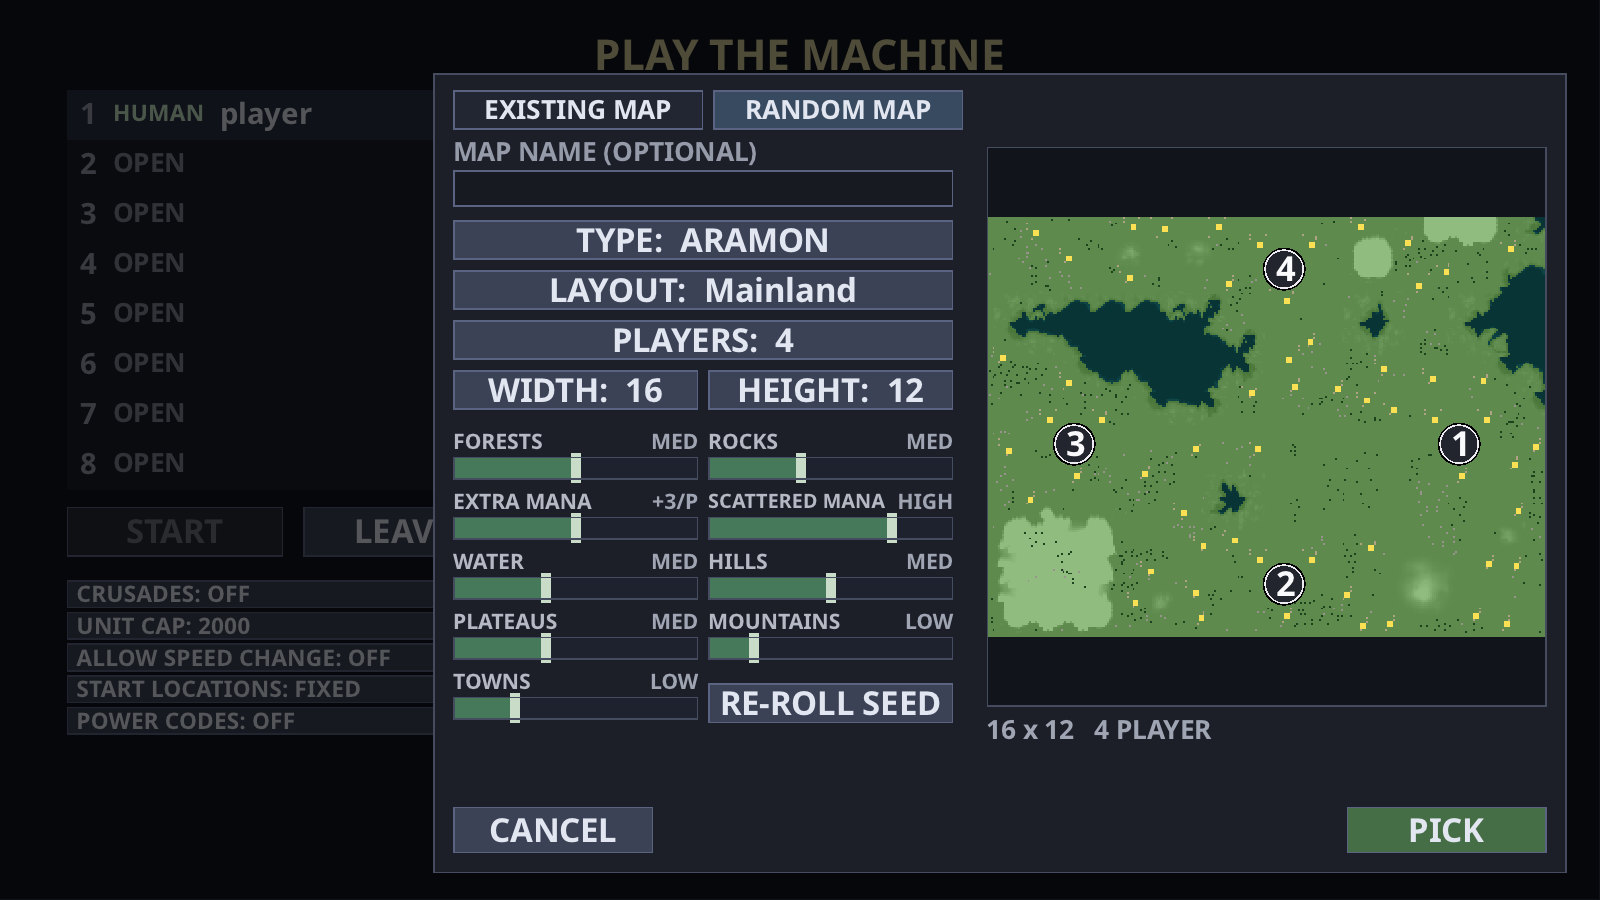
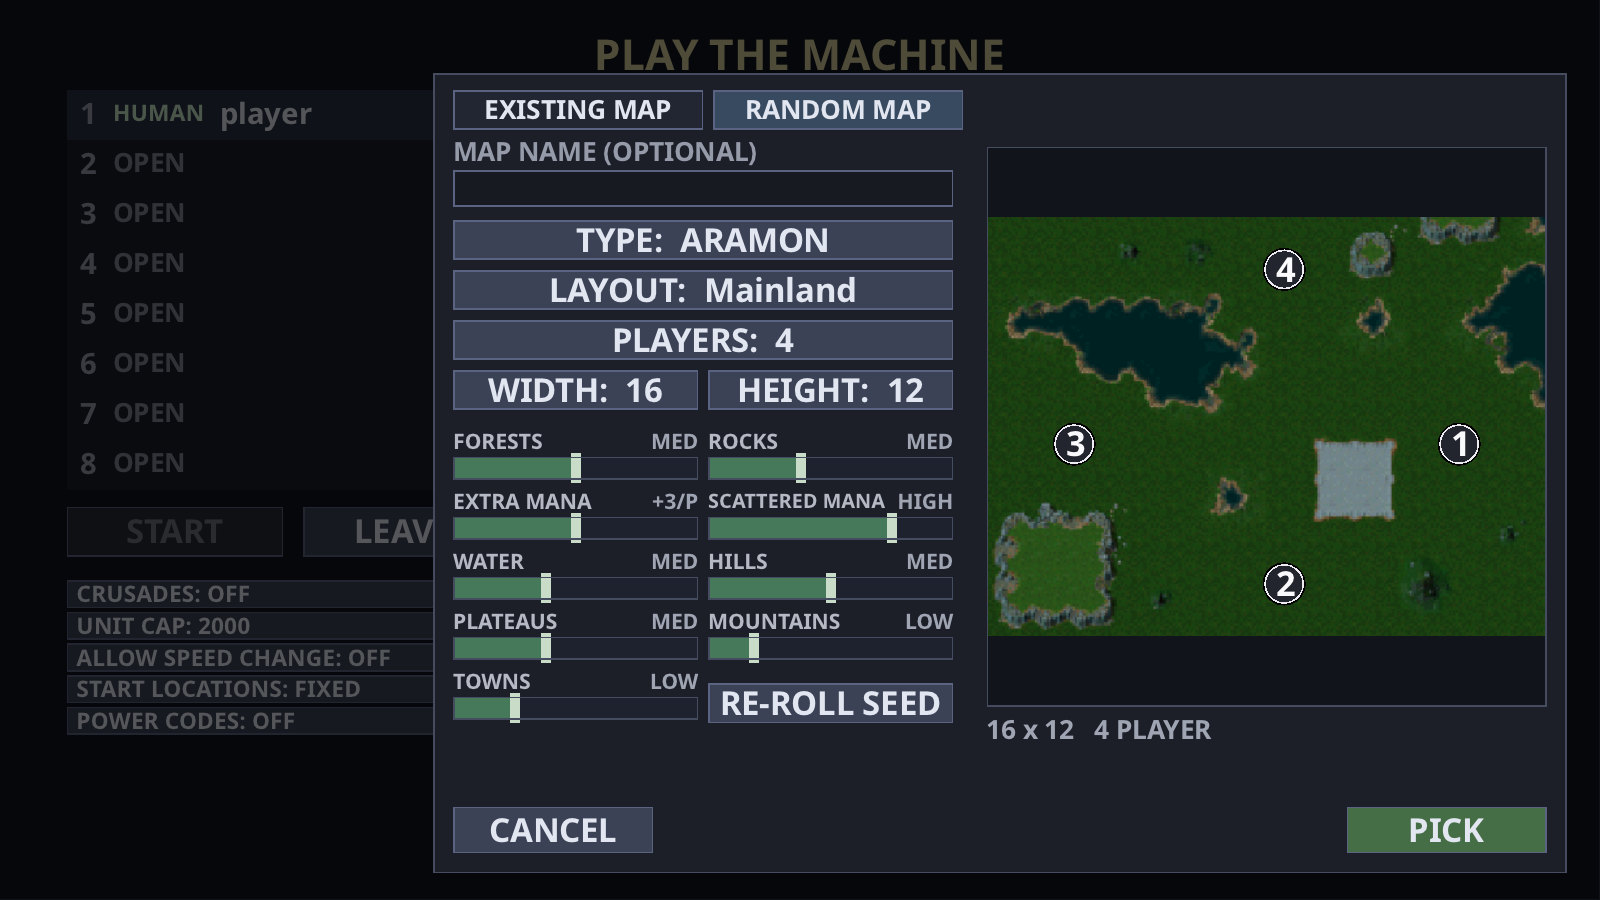
1.0.2: version, CHANGELOG, release notes and validation
Random map previews made from the terrain and saved random maps with radar
pictures and a size. Protocol 324 unchanged: plays with 1.0.1. Title and
RANDOM MAP pictures retaken; 1.0.1's notes and validation leave docs/ (the
CHANGELOG links them at v1.0.1).

Claude-Session: https://claude.ai/code/session_01DLiMWrKYHUMBLp8Vqt4ANr

Changed region(s): [[0.5938, 0.2178, 0.9688, 0.7156]]

diff --git a/docs/img/README.md b/docs/img/README.md
@@ -4,7 +4,7 @@ The pictures used by the README, the [user guide](../user-guide.md), the
 [quick start](../quick-start.md), the [Cartographer guide](../cartographer-guide.md),
 [streaming.md](../streaming.md) and [public-server.md](../public-server.md). Every
 picture is real engine or editor output from a Debug build with `-O2` (OpenGL
-renderer, version 1.0.0), inspected by eye. Nothing is painted into a scene; the only
+renderer, version 1.0.0; `title.jpg` and `guide/random-map-lobby.jpg` version 1.0.2), inspected by eye. Nothing is painted into a scene; the only
 additions are the numbered markers on `guide/hud-annotated.jpg` and
 `cartographer/window-annotated.jpg` and the text labels over the side-by-side
 composites, which the captions name.
@@ -113,7 +113,7 @@ simulation code.
 
 | Image | Scene |
 | --- | --- |
-| `title.jpg` | The title menu with its three doors, reading VERSION 1.0.0. `menu` job `title`: 1920 × 1080, cropped to the 1440 × 1080 artwork at (240, 0) |
+| `title.jpg` | The title menu with its three doors, reading VERSION 1.0.2. `menu` job `title`: 1920 × 1080, cropped to the 1440 × 1080 artwork at (240, 0) |
 | `mp-connect.jpg` | The Multiplayer door's CONNECT TO SERVER panel: tak.pgnet.us (DEFAULT) selected, LOCAL SERVER (HOST), NEW SERVER..., the two sample remembered servers each with DELETE, ACCOUNT NAME *aldric* and PASSWORD as pips side by side, A NEW NAME IS REGISTERED WHEN YOU SIGN IN, and BACK, SPECTATE and CONNECT. `TAK_SHOT_SERVER=4`, 1600 × 900, the panel's contents (360, 244, 1240, 656) scaled to 760 × 356 |
 | `mp-connect-custom.jpg` | The same panel with NEW SERVER... selected: the address box under it holds *tak.example.org*, the account name *aldric*, the password empty. `TAK_SHOT_SERVER=2` with `capture-connC.diff`, 1600 × 900, (360, 216, 1240, 684) scaled to 760 × 404 |
 | `battle.jpg` | **Benchmark** run (Absurd) on Ulasem Arena, 55 game seconds in: eight server AIs of all five sides; at 1.3× zoom Aramon (magenta) and Taros (yellow) armies with Black Dragons clash in a sandy arena, damaged units of every side showing health bars. Spectator view, no fog. `TAK_CAP_BENCHSEC=55`, so the badge reads 0:05; 1920 × 1080 |
@@ -151,7 +151,7 @@ says otherwise.
 | `benchmark.jpg` | A Benchmark run (Absurd), 55 s in, the BENCHMARKING badge reading 0:05 (`TAK_CAP_BENCHSEC=55`): armies meet at the edge of a sandy clearing, with health bars for every side. 1920 × 1080, scaled |
 | `scorecard.jpg` | The F4 scorecard over a Benchmark battle (Absurd), 55 s in, at 1.1× zoom: eight AI players with kills, losses and score. 1920 × 1080 (so the badge clears the Score column), scaled |
 | `voice-chat.jpg` | The VOICE CHAT page with voice chat on and every other voice setting at its default: GENERAL (VOICE CHAT ON), MICROPHONE (MICROPHONE ON, TALK MODE Push to Talk, PUSH TO TALK on SPACE, MIC DEVICE System Default, MIC GAIN 100%, an empty MIC LEVEL, ACTIVATION LEVEL 15 greyed), OUTPUT (Same as Game Output, volume 100), DEFAULTS and BACK. `TAK_SHOT_OPTIONS=voice`, a profile with `voiceEnabled = 1`, 1600 × 900, cropped to the panel (832 × 696 at (384, 101)). No voice engine runs under `--shot`, so the level meter is empty |
-| `random-map-lobby.jpg` | The CHANGE MAP panel's **RANDOM MAP** tab over a single-player room, opened on the remembered recipe `~gen1~0a00ea0700000000000000000280010480608060800003603040` (Aramon, Mainland, 4 players, 16 × 12, Scattered Mana High, seed 2026): MAP NAME (OPTIONAL) empty, the sliders in two columns, RE-ROLL SEED, the preview with four numbered starts and 16 x 12 4 PLAYER, CANCEL and PICK. Room job `rnd`, 1600 × 900, not cropped or scaled |
+| `random-map-lobby.jpg` | The CHANGE MAP panel's **RANDOM MAP** tab over a single-player room, opened on the remembered recipe `~gen1~0a00ea0700000000000000000280010480608060800003603040` (Aramon, Mainland, 4 players, 16 × 12, Scattered Mana High, seed 2026): MAP NAME (OPTIONAL) empty, the sliders in two columns, RE-ROLL SEED, the preview (the map's radar picture, made from its terrain) with four numbered starts and 16 x 12 4 PLAYER, CANCEL and PICK. Room job `rnd`, 1600 × 900, not cropped or scaled |
 | `chat-box.jpg` | The in-game chat box at its defaults (Chat Position Centered, Chat Scale 100%) above the build row and its TRAINING Horseman (10) line, on Ulasem Arena. **Selection still life** (`TAK_SELPORTRAITS=arakeep:1`): a Barracks selected, with a Horseman queue of ten and four chat lines (Ludwin, Aldric, Kirenna, Pat in their player colours) put in by the capture patch, and *on my way* being typed after SAY:. Cropped to the box, the row and the information bar (1240 × 340, not scaled) |
 | `options-interface.jpg` | The USER INTERFACE page's Interface section at its defaults: MODERN UI FONT ON, F4 SCORECARD SCALE and UI SCALE 100%, HEALTH BARS Damaged, STATS PANEL ON, BUILD MENU Center at 100%, IDLE BUILDERS Middle at 50%, CHAT POSITION Centered and CHAT SCALE 100%. `TAK_SHOT_OPTIONS=interface`, fresh profile, 1600 × 1100, cropped to the section (824 × 530 at (388, 108)) |
 | `room-mods-power-codes.jpg` | Single-player room on Ulasem Arena in the install with *House Rules*: POWER CODES: ON from the remembered settings, two Normal AIs (Taros, Veruna); the MODS line names click and House Rules (always enabled, in green), then Classic Sounds and +1 (Big Battles), with MODS... and GAME MODS VERIFIED under it. Room job `roomPC`, 1600 × 900 |

diff --git a/docs/release-1.0.2-notes.md b/docs/release-1.0.2-notes.md
@@ -1,0 +1,79 @@
+# TAK Engine 1.0.2
+
+TAK Engine is a modern, clean-room recreation of *Total Annihilation: Kingdoms*
+(Cavedog, 1999), written in C++20 with SDL2, for Windows, macOS and Linux. It plays the
+original game's skirmishes, campaigns and multiplayer from your own installation, and
+comes with Cartographer, a map and scenario editor, and `takserver`, a dedicated
+multiplayer server. 1.0.2 is a small update to 1.0.1.
+
+## What's new
+
+- **Random map previews show the map.** The small preview of a random map, in the
+  **Random map** tab and in the game room, was a rough sketch with coloured dots for
+  trees, rocks and mana spots. It is now a picture made from the map's own terrain,
+  like every other map's, and matches the full-size view you get by clicking it.
+- **Random maps you played show a preview and a size.** A played random map is saved
+  in your Maps folder and listed under **Existing map**, where it used to show *NO
+  PREVIEW* and no size. New saves carry the map picture and size, as Cartographer's
+  maps do, and ones saved by earlier versions get them when listed.
+
+## What you need
+
+**Your own copy of Total Annihilation: Kingdoms.** No game assets are included: the
+engine reads the maps, models, scripts, interface art, sound and music straight from
+your installation folder, nothing extracted. An installation of *Kingdoms + The Iron
+Plague*, such as the GOG edition, supplies everything. Without *The Iron Plague* you
+have the four original sides and the base campaign: the Creon side and its campaign
+need the `IP*.hpi` archives. At first start the game asks for the folder that holds
+`data.hpi`, `terrain.hpi`, `sections.hpi` and `maps.hpi`.
+
+## Downloads
+
+Pick the file for your system below. Each package holds the game, Cartographer and
+`takserver`.
+
+| System | File |
+| --- | --- |
+| Windows x64 | `tak-engine-1.0.2-windows-x64-setup.exe` (installer), or `takclient-1.0.2-windows-x64.zip` |
+| Windows 11 on ARM | `takclient-1.0.2-windows-arm64.zip` |
+| macOS 14 or later, Apple Silicon | `tak-engine-1.0.2-macos-arm64.dmg`, or `takclient-1.0.2-macos-arm64.zip` |
+| macOS 14 or later, Intel | `tak-engine-1.0.2-macos-x64.dmg`, or `takclient-1.0.2-macos-x64.zip` |
+| Ubuntu 22.04 / 24.04 / 26.04 | `tak-engine-1.0.2-ubuntu<version>-amd64.deb` or `-arm64.deb` |
+| Debian 12 / 13 | `tak-engine-1.0.2-debian<version>-amd64.deb` or `-arm64.deb` |
+| Fedora 44 / 45 | `tak-engine-1.0.2-fedora<version>-x86_64.rpm` or `-aarch64.rpm` |
+| openSUSE Leap 16.0 | `tak-engine-1.0.2-opensuse-leap16.0-x86_64.rpm` or `-aarch64.rpm` |
+| openSUSE Tumbleweed | `tak-engine-1.0.2-opensuse-tumbleweed-x86_64.rpm` or `-aarch64.rpm` |
+| RHEL, Rocky Linux, AlmaLinux 9 / 10 | `tak-engine-1.0.2-el<version>-x86_64.rpm` or `-aarch64.rpm` |
+| Arch Linux (x64) | `tak-engine-1.0.2-1-x86_64.pkg.tar.zst` |
+| Slackware64 15.0 | `tak-engine-1.0.2-x86_64-1_slack15.0.txz` |
+| Any other Linux, Steam Deck | `tak-engine-1.0.2-x86_64.AppImage` or `tak-engine-1.0.2-aarch64.AppImage` |
+
+The `-debug` downloads (`takclient-windows-<arch>-debug.zip`,
+`takclient-macos-<arch>-debug.zip`, `tak-engine-linux-<arch>-debug.tar.gz`) are for
+diagnosing problems, not for playing. The Windows installer and executables are signed;
+the macOS apps and DMGs are signed and notarized by Apple. Libraries the game needs are
+bundled: your system provides only graphics, sound and windowing.
+
+- **Windows:** run the installer, which adds **Total Annihilation - Kingdoms** and **TAK
+  Cartographer** to the Start menu, or unpack the ZIP anywhere and run `takclient.exe`.
+- **macOS:** open the DMG and drag **Total Annihilation - Kingdoms** (and **TAK
+  Cartographer**) to Applications. From the ZIP, launch the `.app`.
+- **Linux:** install the package as administrator (`apt install ./….deb`,
+  `dnf install ./….rpm`, `zypper install ./….rpm`, `pacman -U ./….pkg.tar.zst` or
+  `upgradepkg --install-new ./….txz`), or make the AppImage executable and run it; given
+  `cartographer` or `takserver` as its first argument, it starts those.
+
+## Compatibility
+
+1.0.2 uses network protocol **324**, replay format **15** and random map generator
+version **10**, like 1.0.1. **It plays with 1.0.1 and plays 1.0.1's replays**: only the
+map previews and the saved copy of a played random map changed, not the game. It does
+not play with 1.0.0.
+
+The [quick start](https://github.com/pocketgeek/tak-engine/blob/v1.0.2/docs/quick-start.md),
+the [user guide](https://github.com/pocketgeek/tak-engine/blob/v1.0.2/docs/user-guide.md)
+and the [CHANGELOG](https://github.com/pocketgeek/tak-engine/blob/v1.0.2/CHANGELOG.md)
+cover the rest.
+
+The tests and checks behind this release are in the
+[validation report](release-1.0.2-validation.md).

diff --git a/docs/release-1.0.2-validation.md b/docs/release-1.0.2-validation.md
@@ -1,0 +1,52 @@
+# 1.0.2 release validation
+
+Protocol **324**, replay format **15**, random map generator version **10** (all as 1.0.1).
+
+Tag `v1.0.2` -> (filled in at publication).
+
+## Scope and compatibility
+
+1.0.2 is 1.0.1 (tag `v1.0.1` -> `a830ab1c`) plus three changes, listed in the CHANGELOG's
+1.0.2 entry:
+
+| Commit | Change | Game state |
+|---|---|---|
+| `403db480` | A map file with no radar picture gets a preview drawn from its terrain; the map list reads a saved random map's size from its `.tnt` | display only |
+| `a8001c96` | The Cartographer's minimap builder moves into the shared library (`terrain/minimap.{h,cpp}`); `maps::saveGenerated` writes both radar pictures and `size=` into a played random map's saved copy | saved file only |
+| `2834c192` | A random map's small preview is its large radar picture built from its tiles (no more height sketch with feature dots); the fallback for maps saved before `a8001c96` builds the same picture | display only |
+
+**Compatibility.** Nothing hashed or sent in a game changed: `kNetVersion` stays 324 and
+the simulation sources are untouched, so 1.0.2 plays with 1.0.1 and plays its replays (a
+server checks only the protocol and the game-data hash). A random map room sends only the
+recipe, which every player rolls; a saved `Generated-*.kmp` picked as an existing map
+transfers like any map, with or without radar pictures. No mixed 1.0.1/1.0.2 game was
+played.
+
+## Local tests
+
+Linux, Debug `-O2 -g` (`build-o2`):
+
+- **Quick suite** (`ctest -L quick`): 629 / 629 on each of the three commits.
+- **The changes' own tests:** `map_transfer` and `map_transfer_data` (a saved random map
+  carries a 126 x 126 minimap, an overview and `size=`, and its terrain equals the rolled
+  map's) and the 17 `cartographer` tests (its minimap code now in the shared library).
+- **Screens, by eye:** the room and CHANGE MAP panel on a random map saved by 1.0.1
+  (preview and `2P 16x8` in the list), the RANDOM MAP tab against its full-window view
+  (same terrain), and that saved map's preview against its full-window view.
+- **Save cost:** `saveGenerated` on a 64 x 64 map takes about 200 ms more than before
+  (the tile pass for the pictures), on an 8 x 8 map about 60 ms.
+- **`--mpai` Inner Circle, seed 1, Retail 60 s**, `TAK_SPEED=80`: `beb81788610d2a6c`, as
+  1.0.0 and 1.0.1. The other gates were not run: no simulation source changed.
+
+Pictures retaken with the 1.0.2 build: `docs/img/title.jpg` (VERSION 1.0.2) and
+`docs/img/guide/random-map-lobby.jpg` (the new preview).
+
+## Not run for this release
+
+The full suite, the other `--mpai` gates, `tools/check-determinism.sh`, the desync sweeps
+and the Windows and macOS test runs: the changes are confined to map previews, the map
+list and the saved copy of a random map. Tag CI runs the determinism workflow.
+
+## Tag CI and packages
+
+(Filled in at publication.)

diff --git a/README.md b/README.md
@@ -6,7 +6,7 @@
 
 A clean-room C++20 / SDL2 recreation of Cavedog's 1999 fantasy RTS.
 
-[![version](https://img.shields.io/badge/version-1.0.1-c9a227?style=flat-square)](CHANGELOG.md)
+[![version](https://img.shields.io/badge/version-1.0.2-c9a227?style=flat-square)](CHANGELOG.md)
 [![platforms](https://img.shields.io/badge/platforms-Linux%20·%20Windows%20·%20macOS-4c8c4a?style=flat-square)](#download)
 [![license](https://img.shields.io/badge/license-GPL--3.0-6c3483?style=flat-square)](LICENSE)
 
@@ -26,7 +26,7 @@ interface art and sound straight from its installation folder.
 > original sides and the base campaign: the Creon side and its campaign need the
 > `IP*.hpi` archives.
 
-## TAK Engine 1.0.1
+## TAK Engine 1.0.2
 
 - The original game on Windows, macOS and Linux: skirmish, both campaigns and
   multiplayer, read from your own installation.
@@ -39,10 +39,10 @@ interface art and sound straight from its installation folder.
 - Random maps, the Cartographer editor, mods, replays, voice chat, YouTube
   streaming and a Benchmark.
 
-New in 1.0.1: ranged units no longer shoot at a swimming Mer Warrior they cannot hit,
-wrecks and bodies in water decay as on land, and bodies sink and fade as they go.
+New in 1.0.2: random maps get a map preview made from their terrain, matching the
+full-size view, and random maps you played show their preview and size in the map list.
 
-Network protocol 324, replay format 15 (1.0.1 does not play with 1.0.0). Details in the
+Network protocol 324, replay format 15 (1.0.2 plays with 1.0.1, not with 1.0.0). Details in the
 [CHANGELOG](CHANGELOG.md).
 
 ## Features
@@ -221,7 +221,7 @@ package and covers certificates, limits, status queries and
 
 ## Project status
 
-TAK Engine 1.0.1 is complete: skirmish, both campaigns, multiplayer with its own
+TAK Engine 1.0.2 is complete: skirmish, both campaigns, multiplayer with its own
 server, replays, the Benchmark and the Cartographer editor are all in place and
 supported. It aims to behave as the original game did; that is not a claim that
 every mission, animation or interaction is identical or fully verified.

diff --git a/CHANGELOG.md b/CHANGELOG.md
@@ -20,6 +20,22 @@ Releases 0.7.11 and later link full release notes, and 0.7.6 and later link
 their validation reports: the latest release's live in [`docs/`](docs/), every earlier one's
 in the source of its tag.
 
+## 1.0.2
+*2026-11-12 · protocol 324 · replay format 15 · plays with 1.0.1 and its replays*
+
+- **Random map previews show the map.** The small preview of a random map, in the
+  **Random map** tab and in the game room, was a rough sketch: one flat colour for
+  the land, dark water and coloured dots for trees, rocks and mana spots. It is now
+  a picture made from the map's own terrain, like every other map's, so it matches
+  the full-size view you get by clicking it.
+- **Random maps you played show a preview and a size.** A played random map is saved
+  in your Maps folder and listed under **Existing map**; it used to show *NO PREVIEW*
+  and no size there. New saves carry the map picture and size, as maps saved by
+  Cartographer do, and random maps saved by earlier versions get them when listed.
+
+Full notes: [release-1.0.2-notes.md](docs/release-1.0.2-notes.md) ·
+validation: [release-1.0.2-validation.md](docs/release-1.0.2-validation.md)
+
 ## 1.0.1
 *2026-11-12 · protocol 324 · replay format 15 · does not play with 1.0.0, nor its replays*
 
@@ -36,8 +52,8 @@ in the source of its tag.
 - **No frozen sparkles on bodies.** A unit killed while it was being built or conjured
   left its construction sparkles hanging around its body; they now rise out and end.
 
-Full notes: [release-1.0.1-notes.md](docs/release-1.0.1-notes.md) ·
-validation: [release-1.0.1-validation.md](docs/release-1.0.1-validation.md)
+Full notes: [release-1.0.1-notes.md](https://github.com/pocketgeek/tak-engine/blob/v1.0.1/docs/release-1.0.1-notes.md) ·
+validation: [release-1.0.1-validation.md](https://github.com/pocketgeek/tak-engine/blob/v1.0.1/docs/release-1.0.1-validation.md)
 
 ## 1.0.0
 *2026-11-11 · protocol 323 · replay format 15 · does not play with 0.9.24 or earlier, nor their replays*

diff --git a/docs/user-guide.md b/docs/user-guide.md
@@ -2,7 +2,7 @@
 
 [Back to the README](../README.md) · [Quick start](quick-start.md) · [Cartographer (map editor) guide](cartographer-guide.md) · [Changelog](../CHANGELOG.md) · [Build and development guide](development.md)
 
-This guide covers **TAK Engine 1.0.1**. Which versions it plays with, and whose
+This guide covers **TAK Engine 1.0.2**. Which versions it plays with, and whose
 replays it plays: see [Versions](#versions). It is written for three kinds of
 reader:
 
@@ -2645,7 +2645,7 @@ others. In single-player there is nobody to wait for, so none of this applies.
 
 ### Versions
 
-TAK Engine 1.0.1 uses network protocol **324** and replay format **15**.
+TAK Engine 1.0.2 uses network protocol **324** and replay format **15**.
 
 - **Multiplayer:** a server turns away a client whose protocol differs from its
   own; the connection fails with a *protocol version mismatch* message. A server

diff --git a/docs/public-server.md b/docs/public-server.md
@@ -11,8 +11,8 @@ independent security audit or protection against a volumetric DDoS.
 
 ## Versions
 
-Server and clients must speak the same network protocol: a 1.0.1 server plays
-with 1.0.1 clients. A `takserver` turns away a client of another protocol with a
+Server and clients must speak the same network protocol: a 1.0.2 server plays
+with 1.0.1 and 1.0.2 clients. A `takserver` turns away a client of another protocol with a
 *protocol version mismatch* message, so update the server and every client
 together. The [CHANGELOG](../CHANGELOG.md) says which releases play together.
 

diff --git a/docs/cartographer-guide.md b/docs/cartographer-guide.md
@@ -11,7 +11,7 @@ with every TAK Engine package, next to the game.
 This guide is for players and mapmakers. It explains what you see on screen and
 what each control does, from a first map to sharing a finished one.
 
-This guide describes Cartographer in TAK Engine 1.0.1.
+This guide describes Cartographer in TAK Engine 1.0.2.
 
 Every picture in this guide is a real Cartographer screen (the Test Map room is
 the game's), using the original game's art. Some put two moments side by side,

diff --git a/docs/development.md b/docs/development.md
@@ -70,7 +70,7 @@ build exactly a release, check out its tag:
 ```sh
 git clone https://github.com/pocketgeek/tak-engine.git
 cd tak-engine
-git checkout v1.0.1
+git checkout v1.0.2
 ```
 
 Then follow the build steps in that checkout's own `docs/development.md`. A
